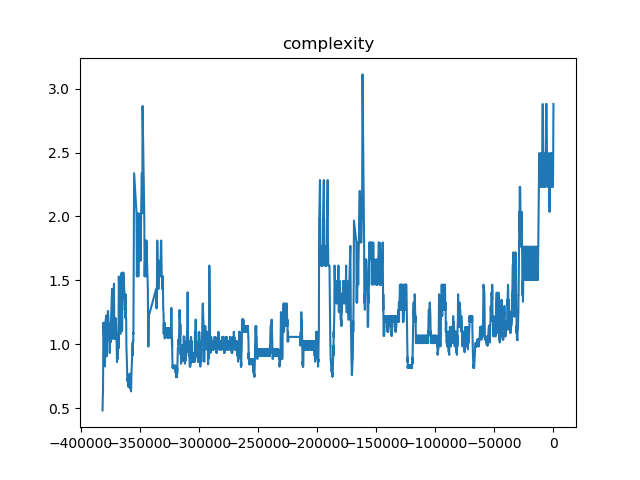
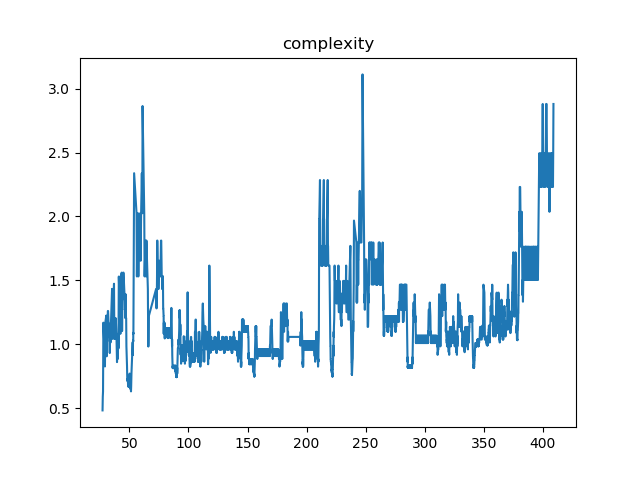
corrected graphs

Changed region(s): [[0.0938, 0.9062, 0.875, 0.9375]]

diff --git a/lot_of_graphs.py b/lot_of_graphs.py
@@ -55,15 +55,15 @@ def kps_felt_minus_kps(left_i, right_i, kps, felt_kps, t, name):
 def complexity(t, complexity, name):
     plt.figure()
     plt.title("complexity")
-    plt.plot(t, complexity)
+    plt.plot(t / 1000, complexity)
     plt.savefig("graphs/" + "complexity_t" + "/" + name + ".png")
     plt.close()
 
 
-def kps(t, complexity , name):
+def kps(t, complexity, name):
     plt.figure()
     plt.title("kps")
-    plt.plot(t, complexity, '.')
+    plt.plot(t / 1000, complexity, '.')
     plt.savefig("graphs/" + "kps_t" + "/" + name + ".png")
     plt.close()
 
@@ -83,7 +83,10 @@ def accuracy(data):
 def histogram(data, type, name):
     plt.figure()
     plt.title("Histogram of " + type)
-    plt.hist(data, bins=20)
+    bandwidth = 0.5
+    if type == "complexity":
+        bandwidth = 0.1
+    plt.hist(data, bins=np.arange(0, max(data) + 1, bandwidth))
     plt.savefig("graphs/" + type + "/" + name + ".png")
     plt.close()
 

diff --git a/main.py b/main.py
@@ -118,7 +118,7 @@ for element in os.listdir(folder_path):
             graph.kps_felt_minus_kps(left_i, right_i, kps, felt_kps, map[:, 2], name)
             graph.kps_VS_complexity(kps, complexity, name)
             graph.kps_VS_kps_felt(kps, felt_kps, name)
-            # graph.G()
+            #graph.G()
             #graph.F()
             graph.histogram(complexity, "complexity", name)
             graph.histogram(kps, 'kps', name)

diff --git a/calc_complexity.py b/calc_complexity.py
@@ -57,7 +57,7 @@ def calc_complexity(map, nb_columns, kps):  # Calculates FFT and complexity of a
     i = 0
     i_min = 0
     complexity = []
-    t = map[:, 2]
+    t = np.copy(map[:, 2])
     columns = map[:, 0]
     nb_notes = len(t)
     sample = initialize_sample(nb_columns)
